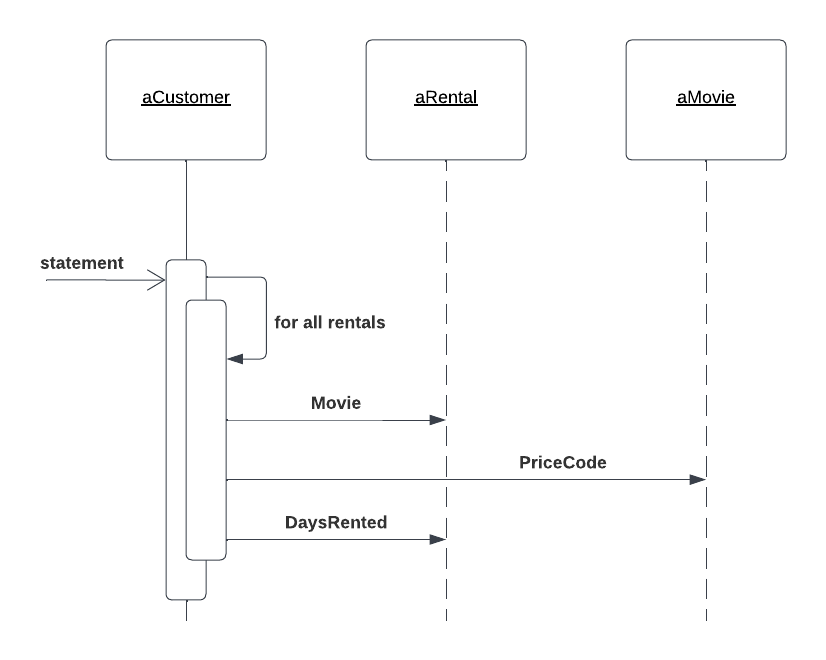
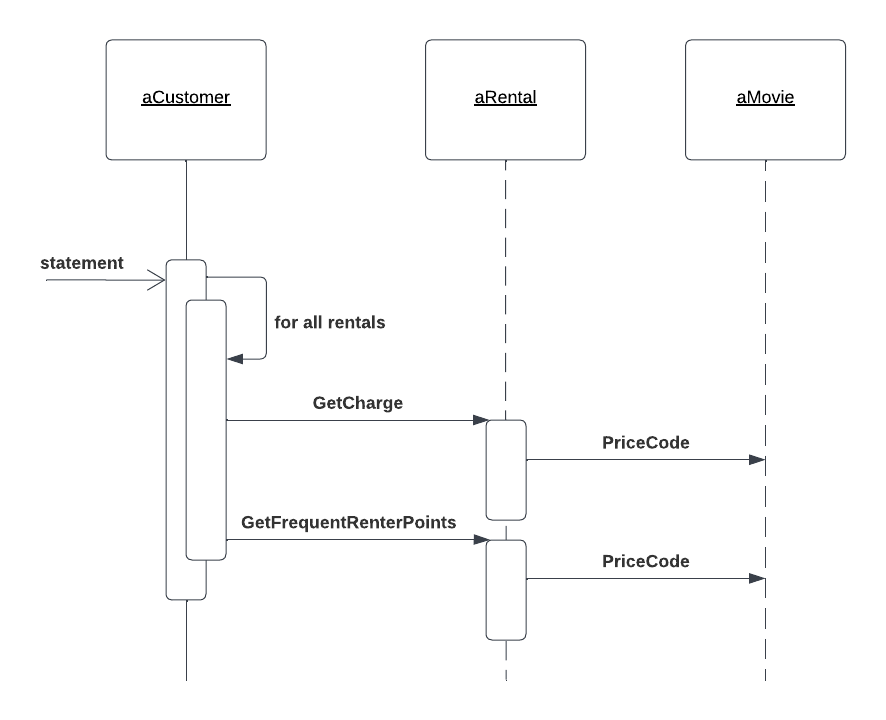
Extract method

diff --git a/MoviesRental/Customer.cs b/MoviesRental/Customer.cs
@@ -24,10 +24,7 @@ public class Customer
 
         foreach (var aRental in Rentals)
         {
-            frequentRentalPoints++;
-
-            if (aRental.Movie.PriceCode == Movie.NewRelease && aRental.DaysRented > 1)
-                frequentRentalPoints++;
+            frequentRentalPoints += aRental.GetFrequentRenterPoints();
 
             result += $"\t{aRental.Movie.Title}\t{aRental.GetCharge()}\n";
             totalAmount += aRental.GetCharge();

diff --git a/MoviesRental/Rental.cs b/MoviesRental/Rental.cs
@@ -34,4 +34,11 @@ public class Rental
 
         return result;
     }
+    public int GetFrequentRenterPoints()
+    {
+        if (Movie.PriceCode == Movie.NewRelease && DaysRented > 1)
+            return 2;
+
+        return 1;
+    }
 }
